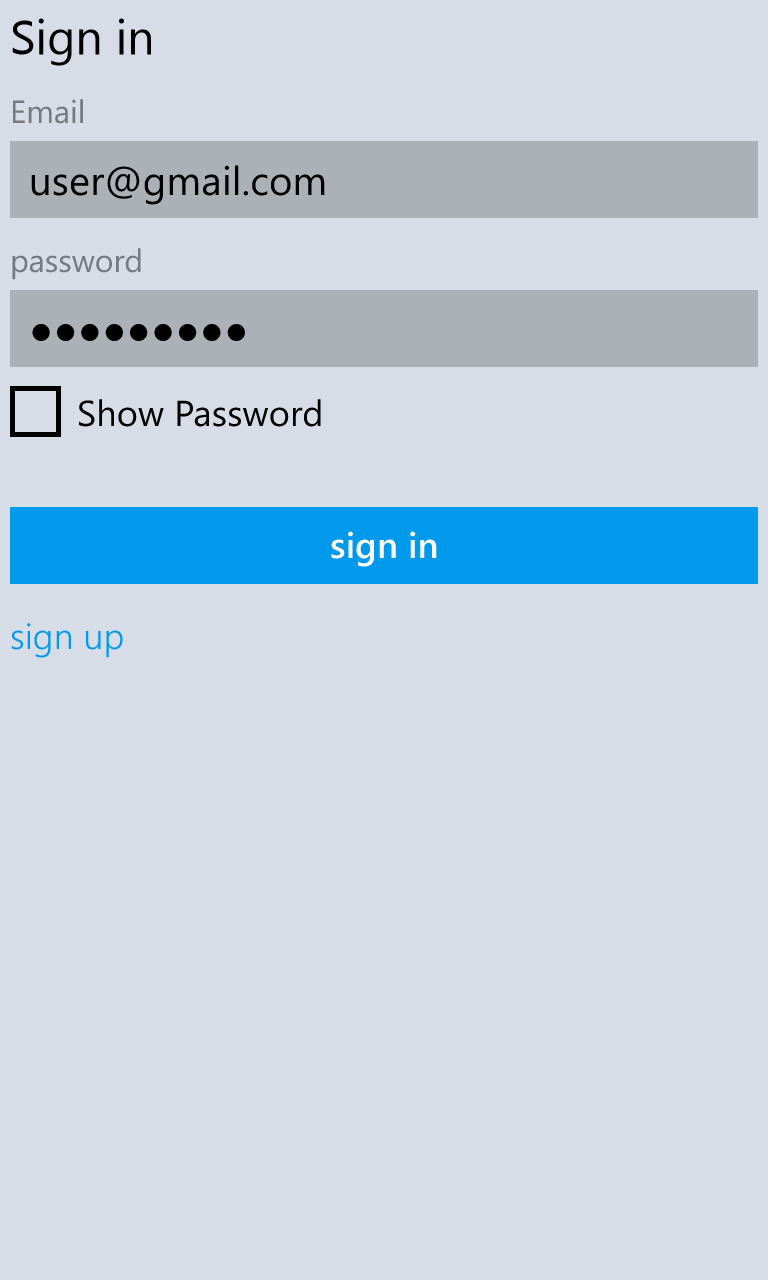
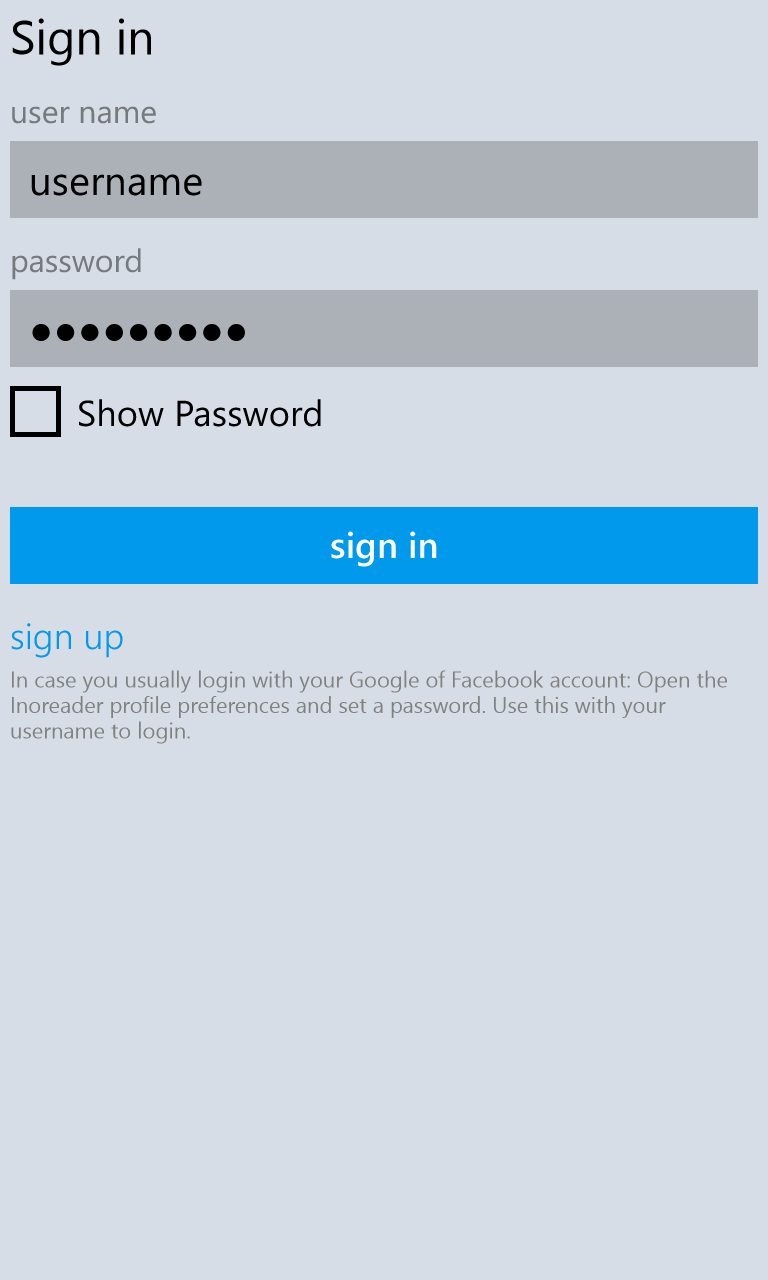
new Store release

Changed region(s): [[0.0, 0.5312, 0.875, 0.5938], [0.125, 0.125, 0.4375, 0.1562], [0.0, 0.0625, 0.1875, 0.0938]]

diff --git a/src/Inoreader/Inoreader/Inoreader.WindowsPhone/Views/Pages/SignInPage.xaml b/src/Inoreader/Inoreader/Inoreader.WindowsPhone/Views/Pages/SignInPage.xaml
@@ -14,7 +14,7 @@
 		<StackPanel Margin="5">
 			<TextBlock x:Uid="SignInHeader" Text="Sign in" Style="{StaticResource PageHeaderTextStyle}" Margin="0" />
 			
-			<TextBox x:Uid="SignInEmailBox" Header="Email" PlaceholderText="username@gmail.com" 
+			<TextBox x:Uid="SignInEmailBox" Header="user name" PlaceholderText="username" 
 					 Text="{Binding Email, Mode=TwoWay, UpdateSourceTrigger=PropertyChanged}"
 					 Margin="0,10,0,0" />
 			<PasswordBox x:Uid="SignInPasswordBox" Header="password" IsPasswordRevealButtonEnabled="True" Password="{Binding Password, Mode=TwoWay, UpdateSourceTrigger=PropertyChanged}" />

diff --git a/src/Inoreader/Inoreader/Inoreader.WindowsPhone/Strings/en-US/Resources.cs b/src/Inoreader/Inoreader/Inoreader.WindowsPhone/Strings/en-US/Resources.cs
@@ -17,7 +17,7 @@
 // 	This code contains a helper class exposing property representations
 // 	of the string resources defined in the specified .ResW file
 // 
-// 	Generated: 02/16/2015 19:14:48
+// 	Generated: 02/18/2015 20:05:41
 // </auto-generatedInfo>
 // --------------------------------------------------------------------------------------------------
 namespace Inoreader.Strings
